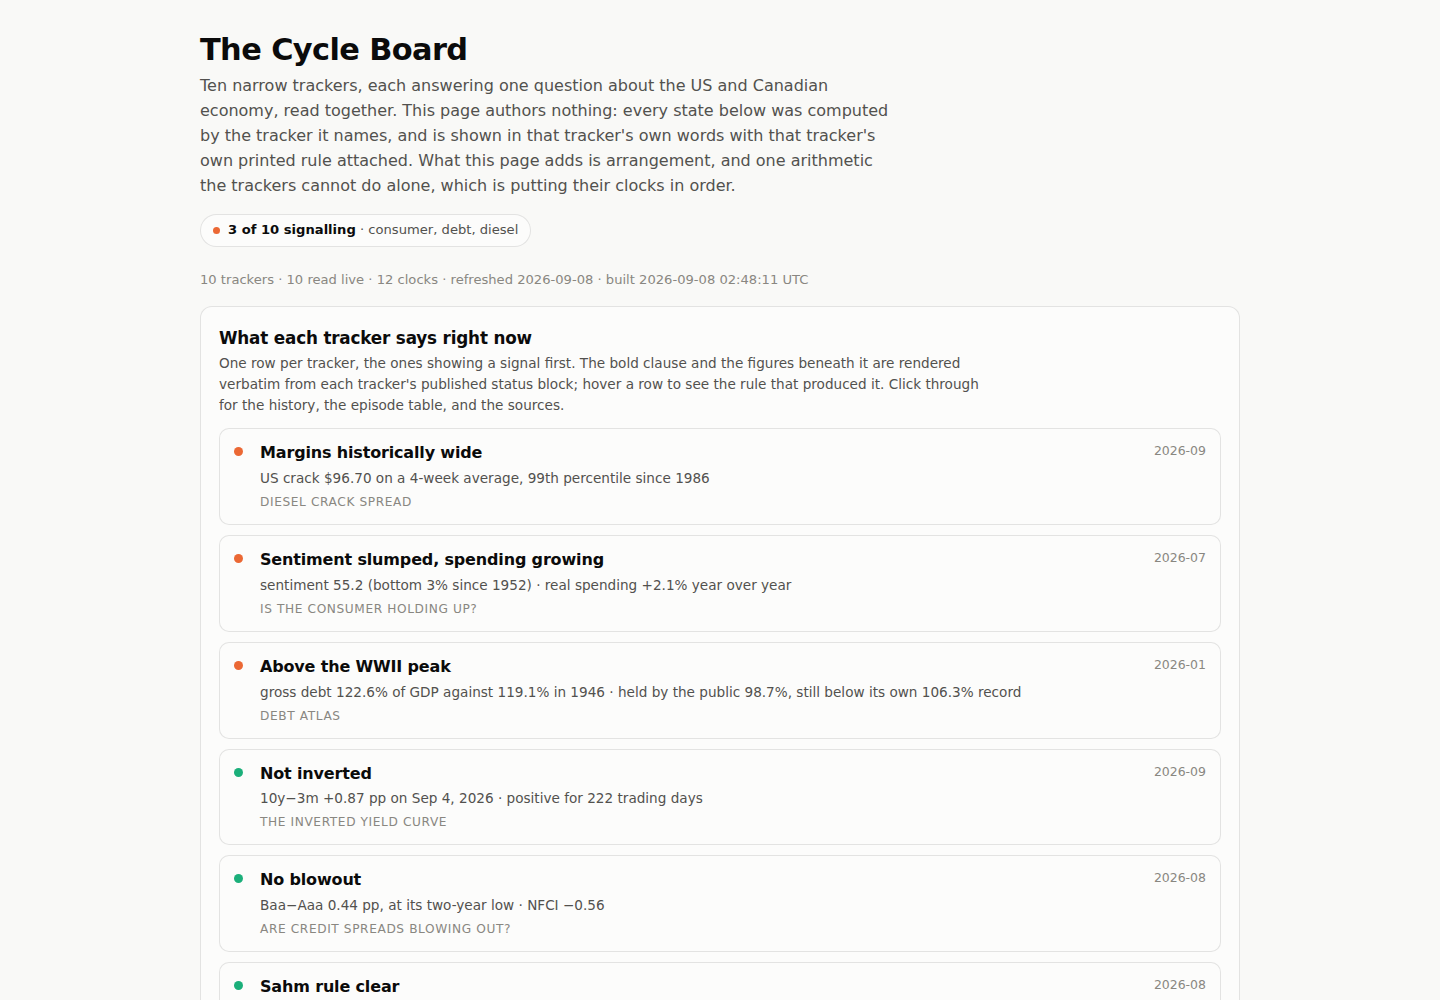
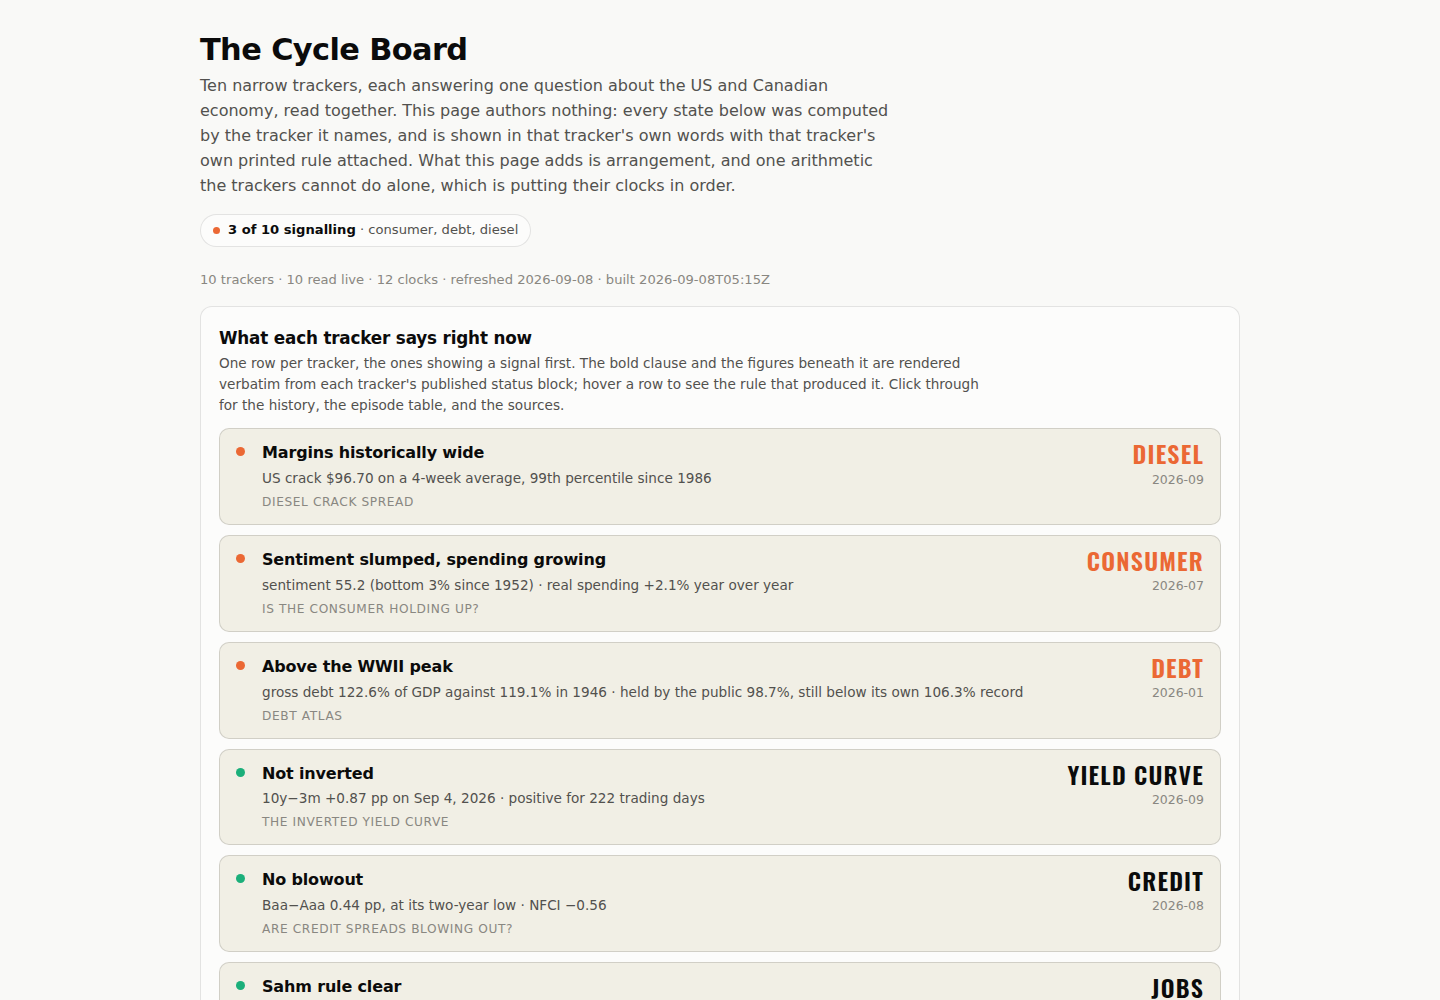
econ: the board names its own domain, in Oswald, on a warmer plane
Each tracker titles itself as a question, which is the right headline and
the wrong label: ten questions cannot be scanned. Every board row now
carries the domain noun on its right edge, set large in condensed caps,
so the reader knows which tracker is speaking before reading the clause
that says what it is saying. The mapping from tracker id to noun is
hand-declared, because an id is a slug and a slug is not a noun.

The rows also leave the card's surface for a warmer one of their own.
Ten readings are the object this page exists for; they should not share
a background with the prose that explains them.

The word is Oswald 600, self-hosted at 13KB with its OFL alongside, so
the page stays a static site that fetches nothing from a third party.
The fallback stack is condensed too, so a font that fails to load shifts
the weight but not the column width. Under 560px the word drops beneath
the text block and wraps rather than pushing the row off the viewport.

Verified in both themes and at 390px; desktop-board and mobile-390
screenshots regenerated.

Generated with [Claude Code](https://claude.ai/code)
via [Happy](https://happy.engineering)

diff --git a/src/index.html b/src/index.html
@@ -6,7 +6,18 @@
 <title>The Cycle Board: Ten Trackers, One Page</title>
 <meta name="description" content="Ten narrow economic trackers on one page: what each says right now in its own words with its own printed rule, the computed order in which their clocks have historically rung, and every headline series normalized to a trailing ten-year z-score. Nothing here is authored; every figure was computed by the tracker it is attributed to.">
 <link rel="stylesheet" href="/shared-footer/footer.css">
+<link rel="preload" href="/fonts/oswald.woff2" as="font" type="font/woff2" crossorigin>
 <style>
+/* The only web font on the page, self-hosted so this stays a static site with
+   no third-party fetch. Latin subset, ~13KB, used for ten uppercase words.
+   Oswald, SIL Open Font License 1.1, see fonts/Oswald-OFL.txt. */
+@font-face {
+  font-family: "Oswald";
+  src: url(/fonts/oswald.woff2) format("woff2");
+  font-weight: 600;
+  font-style: normal;
+  font-display: swap;
+}
 :root {
   color-scheme: light;
   --surface-1: #fcfcfb;
@@ -17,6 +28,8 @@
   --grid: #e1e0d9;
   --axis: #c3c2b7;
   --border: rgba(11,11,11,0.10);
+  --row-bg: #f1efe5;
+  --row-edge: rgba(11,11,11,0.14);
   --series-1: #2a78d6;
   --series-2: #eb6834;
   --series-3: #1baf7a;
@@ -36,6 +49,8 @@
     --grid: #2c2c2a;
     --axis: #383835;
     --border: rgba(255,255,255,0.10);
+    --row-bg: #242422;
+    --row-edge: rgba(255,255,255,0.16);
     --series-1: #3987e5;
     --series-2: #d95926;
     --series-3: #199e70;
@@ -55,6 +70,8 @@
   --grid: #2c2c2a;
   --axis: #383835;
   --border: rgba(255,255,255,0.10);
+  --row-bg: #242422;
+  --row-edge: rgba(255,255,255,0.16);
   --series-1: #3987e5;
   --series-2: #d95926;
   --series-3: #199e70;
@@ -159,10 +176,12 @@ tr.miss td { background: rgba(179,84,30,0.07); }
 
 /* ---- econ-only additions ---- */
 .board { display: grid; gap: 10px; margin: 4px 0 0; }
+/* Board rows sit on a warmer plane than the card they live in, so the ten
+   readings read as a distinct object rather than as more of the page. */
 .row {
-  display: grid; grid-template-columns: 14px 1fr auto; gap: 12px; align-items: start;
-  background: var(--surface-1); border: 1px solid var(--border); border-radius: 10px;
-  padding: 12px 14px; text-decoration: none; color: inherit;
+  display: grid; grid-template-columns: 14px minmax(0,1fr) auto; gap: 12px; align-items: start;
+  background: var(--row-bg); border: 1px solid var(--row-edge); border-radius: 10px;
+  padding: 12px 16px; text-decoration: none; color: inherit;
 }
 .row:hover { border-color: var(--axis); }
 .row .sdot { width: 9px; height: 9px; border-radius: 50%; background: var(--series-3); margin-top: 6px; }
@@ -171,8 +190,26 @@ tr.miss td { background: rgba(179,84,30,0.07); }
 .row .lab { font-weight: 650; letter-spacing: -0.01em; }
 .row .det { font-size: 0.85rem; color: var(--text-secondary); margin-top: 2px; }
 .row .who { font-size: 0.76rem; color: var(--muted); margin-top: 4px; text-transform: uppercase; letter-spacing: 0.05em; }
-.row .when { font-size: 0.78rem; color: var(--muted); font-variant-numeric: tabular-nums; text-align: right; white-space: nowrap; }
+.row .right { text-align: right; }
+/* The domain word: which tracker this is, legible before the sentence is read.
+   Condensed, so ten of them stack without the longest ("YIELD CURVE") setting
+   the column width; the fallback stack is condensed too, so a font that fails
+   to load shifts the weight but not the layout. */
+.row .dom {
+  font-family: "Oswald", "Helvetica Neue", "Arial Narrow", "Liberation Sans Narrow", system-ui, sans-serif;
+  font-stretch: condensed;
+  font-size: 1.5rem; font-weight: 600; line-height: 1.05;
+  letter-spacing: 0.05em; text-transform: uppercase;
+  color: var(--text-primary); white-space: nowrap;
+}
+.row[data-state="signal"] .dom { color: var(--series-2); }
+.row .when { font-size: 0.78rem; color: var(--muted); font-variant-numeric: tabular-nums; white-space: nowrap; margin-top: 3px; }
 .row .flag { color: var(--warn); font-size: 0.76rem; display: block; }
+@media (max-width: 560px) {
+  .row { grid-template-columns: 14px minmax(0,1fr); }
+  .row .right { grid-column: 2; text-align: left; }
+  .row .dom { font-size: 1.3rem; white-space: normal; }
+}
 
 /* Diverging bars for the sequence: leads one hue, lags the other, a neutral
    zero rule between them. Validated for CVD against both surfaces. */
@@ -636,6 +673,17 @@ tr.miss td { background: rgba(179,84,30,0.07); }
   // ------------------------------------------------------------------
   // the board
   // ------------------------------------------------------------------
+  // The word that names the domain, not the question. Each tracker titles
+  // itself as a question ("Is the Consumer Holding Up?"), which is the right
+  // headline and the wrong label: you cannot scan ten questions. Hand-declared
+  // rather than derived, because the id is a slug and a slug is not a noun.
+  var DOMAIN = {
+    yield: "Yield Curve", housing: "Housing", credit: "Credit",
+    lending: "Lending", freight: "Freight", consumer: "Consumer",
+    output: "Output", jobs: "Jobs", debt: "Debt", diesel: "Diesel"
+  };
+  function domainWord(r) { return DOMAIN[r.id] || String(r.id || "").replace(/[-_]/g, " "); }
+
   function buildBoard(p) {
     var rows = (p.board || []).slice();
     // Signal first, then stale last, then by how recent the reading is.
@@ -654,15 +702,17 @@ tr.miss td { background: rgba(179,84,30,0.07); }
           '<span class="sdot"></span><div><div class="lab">' + esc(r.name) + "</div>" +
           '<div class="det">This tracker could not be read and has no stored reading to fall back on.</div>' +
           '<div class="who">' + esc(r.id) + "</div></div>" +
-          '<div class="when"><span class="flag">unavailable</span></div></div>';
+          '<div class="right"><div class="dom">' + esc(domainWord(r)) + "</div>" +
+          '<div class="when"><span class="flag">unavailable</span></div></div></div>';
       }
       return '<a class="row" href="' + esc(r.url) + '" data-state="' + esc(h.state) +
         '" data-stale="' + (r.stale ? "true" : "false") + '" title="' + esc(h.rule) + '">' +
         '<span class="sdot"></span><div><div class="lab">' + esc(h.label) + "</div>" +
         '<div class="det">' + esc(h.detail) + "</div>" +
         '<div class="who">' + esc(r.name) + "</div></div>" +
+        '<div class="right"><div class="dom">' + esc(domainWord(r)) + "</div>" +
         '<div class="when">' + esc(String(h.as_of).slice(0, 7)) +
-        (r.stale ? '<span class="flag">stale</span>' : "") + "</div></a>";
+        (r.stale ? '<span class="flag">stale</span>' : "") + "</div></div></a>";
     }).join("");
   }
 
